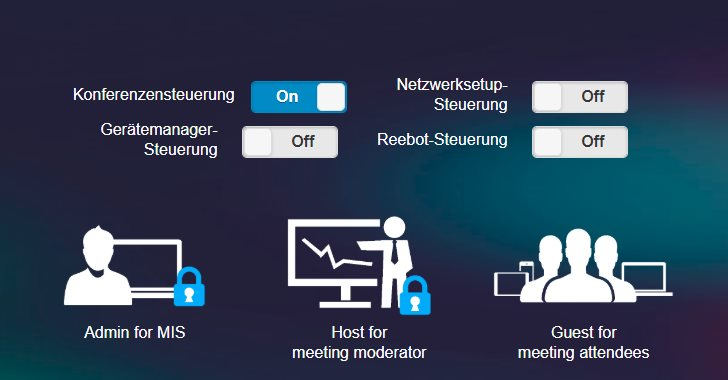
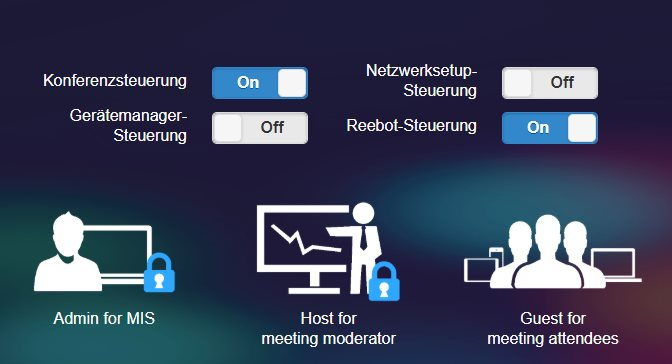
dx

diff --git a/src/Pro-Stick-D10/firmware-reinstall.md b/src/Pro-Stick-D10/firmware-reinstall.md
@@ -139,8 +139,12 @@ Nach der Neuinstallation werden Sie bei der ersten Anmeldung auf der [Erweiterte
 * [Mein Bildschirm](adv.settings.md#Mein-Bildschirm): [Unsere Startseite](https://download.stueber.de/doc/de/ezcastpro/EZCastProV2_StartseiteDE.png) in der deutschen Sprache
 * [Sprache](adv.settings.md#Sprache): `DEUTSCH`
 * [WLAN-Modus](adv.settings.md#Wifi-Channel): `Land = EUROPE`, `Bandbreite = 20MHz`
-* [Android-Audio-Streaming](adv.settings.md#Android-Audio-Streaming): `ON`
-* [Gastbehörde](adv.settings.md#Host-Authority): `Dem Host Zugang nur auf die Konferenzsteuerung zulassen`
+* [Android-Audio-Streaming](adv.settings.md#Android-Audio-Streaming): `EIN`
+* [Gastbehörde](adv.settings.md#Host-Authority):
 
+Dem Host Zugang nur auf die Konferenzsteuerung und die Reboot-Steuerung zulassen:
 
+`Admineinstellungen` -> `Gastbehörde`
+	
+![](/images/Host_authority.jpg)
 

diff --git a/src/Pro-Stick-D10/adv.settings.md b/src/Pro-Stick-D10/adv.settings.md
@@ -236,7 +236,7 @@ Möchten Sie bespielsweise, dass der Host keinen Zugang auf die Schaltfläche `E
 
 ![Beim Ausschalten der Funktion Gerätemanager-Steuerung wird die Schaltfläche Host-Einstellungen ausgeblendet](/images/ezcastpro.II.software.hostsettings.hidden.png)
 
-Bei der obigen Konfiguration (alle Funktionen ausgeschaltet außer Konferenzsteuerung) wird nur die Funktion `Konferenzsteuerung` eingeblendet. Bitte beachten: Die Rubriken `Link-Status` und `Über` stehen immer zur Verfügung.
+Bei der obigen Konfiguration (die Funktionen Gerätemanager-Steuerung und Netzwerksetup-Steuerung ausschalten) wird nur die Funktion `Konferenzsteuerung` und `Reboot-Steuerung` eingeblendet. Bitte beachten: Die Rubriken `Link-Status` und `Über` stehen immer zur Verfügung.
 
 ![Funktion Konferenzensteuerung wird eingeblendet](/images/ezcastpro.II.Host_authority_example.jpg)
 
